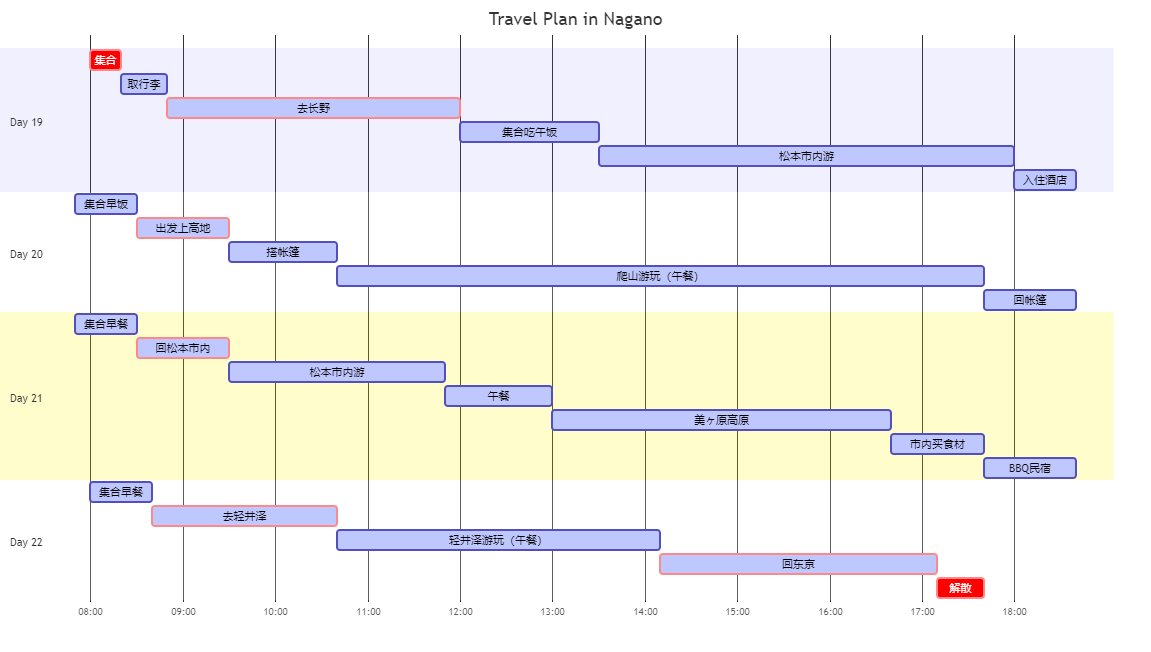
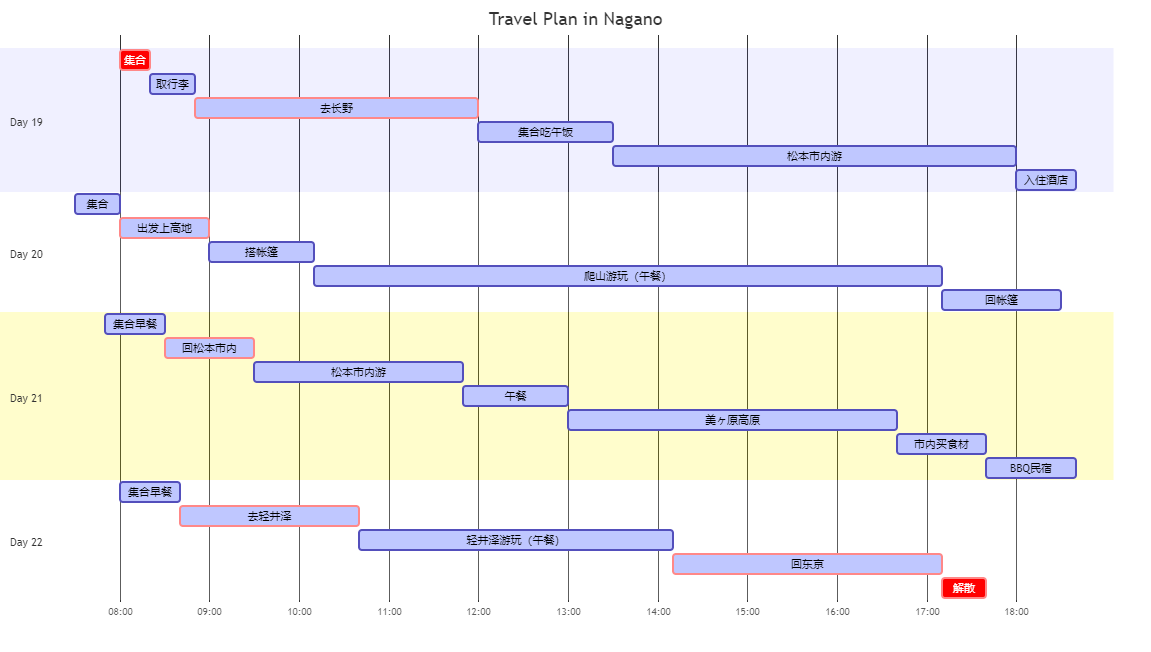
更新野营出行日程安排

diff --git a/旅行/nagano.md b/旅行/nagano.md
@@ -1,5 +1,4 @@
 ## 旅行计划
-- [旅行计划](#旅行计划)
 - [行程安排](#行程安排)
 - [交通安排](#交通安排)
 - [酒店安排](#酒店安排)
@@ -72,9 +71,7 @@
 [取还车地点](https://sasp.mapion.co.jp/b/nrs/info/512712/?poi_code=512712)
 ### 松本
 [松本酒店](https://www.jalan.net/yad336984/?screenId=UWW3101&stayCount=1&yadNo=336984&maxPrice=999999&rootCd=04&smlCd=162202&distCd=01&minPrice=0&yadoDetailMode=1&stayYear=2020&stayMonth=9&stayDay=19&callbackHistFlg=1&roomCount=1&adultNum=2&roomCrack=200000)　　 
-
 [国営アルプスあづみの公園 (堀金・穂高地区) 田園文化ゾーン](https://www.google.co.jp/maps/place/%E5%9B%BD%E5%96%B6%E3%82%A2%E3%83%AB%E3%83%97%E3%82%B9%E3%81%82%E3%81%A5%E3%81%BF%E3%81%AE%E5%85%AC%E5%9C%92+(%E5%A0%80%E9%87%91%E3%83%BB%E7%A9%82%E9%AB%98%E5%9C%B0%E5%8C%BA)+%E7%94%B0%E5%9C%92%E6%96%87%E5%8C%96%E3%82%BE%E3%83%BC%E3%83%B3/@36.1950204,138.3419472,9.5z/data=!4m15!1m9!2m8!1z6Kaz5YWJ5Zyw!3m6!1z6Kaz5YWJ5Zyw!2z44CSMzkwLTA4NzMg6ZW36YeO55yM5p2-5pys5biC5Li444Gu5YaF77yU4oiS77yRIOWbveWunSDmnb7mnKzln44!3s0x601d0e850a9a5999:0x902d0e20fabcf654!4m2!1d137.9688674!2d36.238653!3m4!1s0x601d6b8a6421ca9f:0xd71f73df92b90897!8m2!3d36.3152289!4d137.8432703?hl=ja)　　　
-
 [美ヶ原高原](https://www.google.co.jp/maps/place/%E7%BE%8E%E3%83%B6%E5%8E%9F%E9%AB%98%E5%8E%9F/@36.2152506,138.1282962,13.75z/data=!4m15!1m9!2m8!1z6Kaz5YWJ5Zyw!3m6!1z6Kaz5YWJ5Zyw!2z44CSMzkwLTAyMjIg6ZW36YeO55yM5p2-5pys5biC5aSn5a2X5YWl5bGx6L6677yY77yZ77yW77yRIOajruOBruWwj-OBleOBquODquOCvuODvOODiOadkSDmoZzmuIXmsLTjgrPjg4bjg7zjgrg!3s0x601da81b266f68b7:0x47bfe888d3a1c064!4m2!1d138.0872016!2d36.2158845!3m4!1s0x0:0x5d81271d1bed201!8m2!3d36.2225861!4d138.1205142?hl=ja)
 [信州塩尻農業公園 チロルの森](http://www.tirol.gr.jp/)
 ### 上高地

diff --git a/旅行/sources/nagano_schedule.md b/旅行/sources/nagano_schedule.md
@@ -12,11 +12,11 @@ gantt
     入住酒店           : active, fday6, after fday5, 40m
 
     section Day 20
-    集合早饭           : active, sday1, 07:50, 40m
+    集合              : active, sday1, 07:30, 30m
     出发上高地         : crit, active, sday2, after sday1, 60m
     搭帐篷             : active, sday3, after sday2, 70m
     爬山游玩（午餐）    : active, sday4, after sday3, 7h
-    回帐篷         : active, sday5, after sday4, 1h
+    回帐篷         : active, sday5, after sday4, 80m
     
     section Day 21
     集合早餐           : active, tday1, 07:50, 40m
